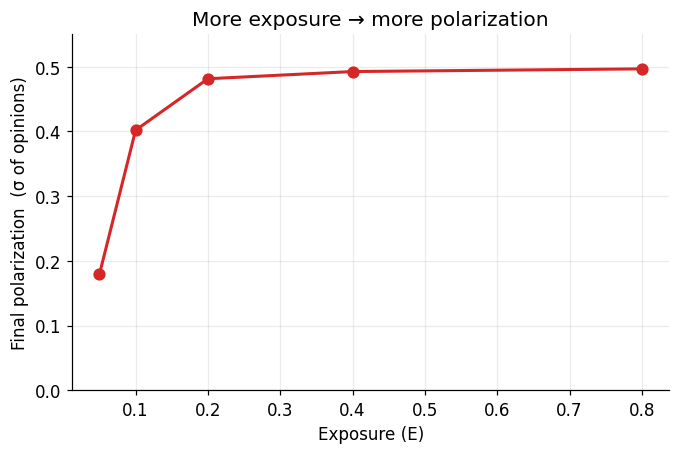
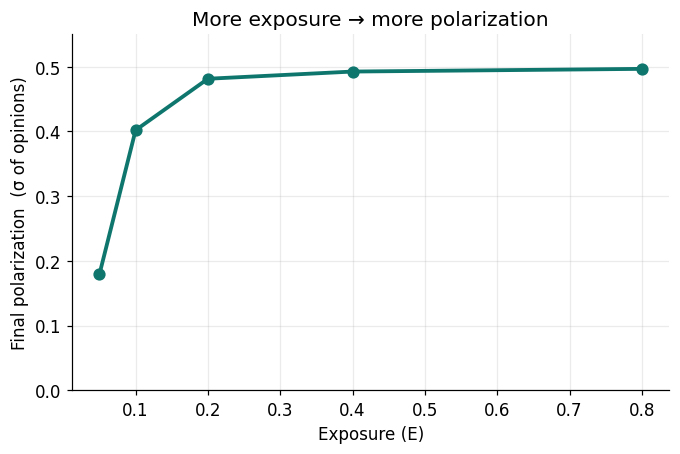
Add guided Next-page links and unify sensitivity chart colors
- st.page_link "Next" navigation at the foot of each narrative page so the
  walkthrough flows without the sidebar.
- Recolor the two sensitivity line charts to the teal polarization-measure
  color, matching the Playground sigma chart.

Changed region(s): [[0.1853, 0.1233, 0.9574, 0.37], [0.1544, 0.37, 0.1853, 0.5551], [0.1235, 0.5551, 0.1544, 0.6167]]

diff --git a/generate_figures.py b/generate_figures.py
@@ -123,7 +123,7 @@ def fig_sensitivity_exposure():
     vals = [0.05, 0.1, 0.2, 0.4, 0.8]
     sig = sweep("exposure", vals)
     fig, ax = plt.subplots(figsize=(7, 4.2))
-    ax.plot(vals, sig, "o-", color="#d62728", lw=2, ms=7)
+    ax.plot(vals, sig, "o-", color="#0f766e", lw=2.5, ms=7)
     ax.set_xlabel("Exposure (E)")
     ax.set_ylabel("Final polarization  (σ of opinions)")
     ax.set_title("More exposure → more polarization")
@@ -138,7 +138,7 @@ def fig_sensitivity_gini():
     vals = [0.25, 0.35, 0.434, 0.55, 0.7]
     sig = sweep("gini", vals)
     fig, ax = plt.subplots(figsize=(7, 4.2))
-    ax.plot(vals, sig, "o-", color="#1f77b4", lw=2, ms=7)
+    ax.plot(vals, sig, "o-", color="#0f766e", lw=2.5, ms=7)
     ax.axvline(0.434, color="#888", ls="--", lw=1)
     ax.text(0.44, 0.02, "US base case\n(Gini = 0.434)", fontsize=8, color="#555")
     ax.set_xlabel("Gini coefficient (economic inequality)")

diff --git a/pages/1_Motivation.py b/pages/1_Motivation.py
@@ -84,3 +84,6 @@ if pdf.exists():
         file_name="Goyal-2024-Modeling-the-Divide.pdf",
         mime="application/pdf",
     )
+
+st.divider()
+st.page_link("pages/2_The_Evidence.py", label="Next: The Evidence", icon="➡️")

diff --git a/pages/2_The_Evidence.py b/pages/2_The_Evidence.py
@@ -83,3 +83,6 @@ st.info(
     "lines. None of it proves the model, but it's the world the model's mechanism "
     "points to. Next, how the model actually works."
 )
+
+st.divider()
+st.page_link("pages/3_The_Model.py", label="Next: The Model", icon="➡️")

diff --git a/pages/3_The_Model.py b/pages/3_The_Model.py
@@ -154,3 +154,6 @@ itself worth a look.
 > and Mitigating Political Polarization. BSc (Hons) Mathematics & Statistics,
 > University of St Andrews.*
 """)
+
+st.divider()
+st.page_link("pages/4_What_Happens.py", label="Next: What Happens", icon="➡️")

diff --git a/pages/4_What_Happens.py b/pages/4_What_Happens.py
@@ -104,3 +104,6 @@ st.success(
     "model has a dozen dials. Head to the **Playground** to set your own scenario "
     "and see if you can make the divide collapse, explode, or hold steady."
 )
+
+st.divider()
+st.page_link("pages/5_Playground.py", label="Next: open the Playground", icon="➡️")